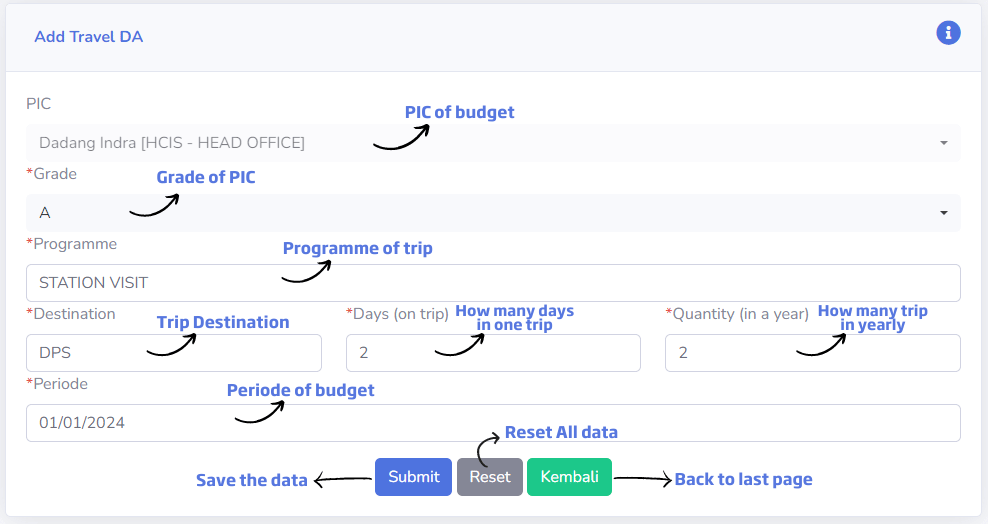
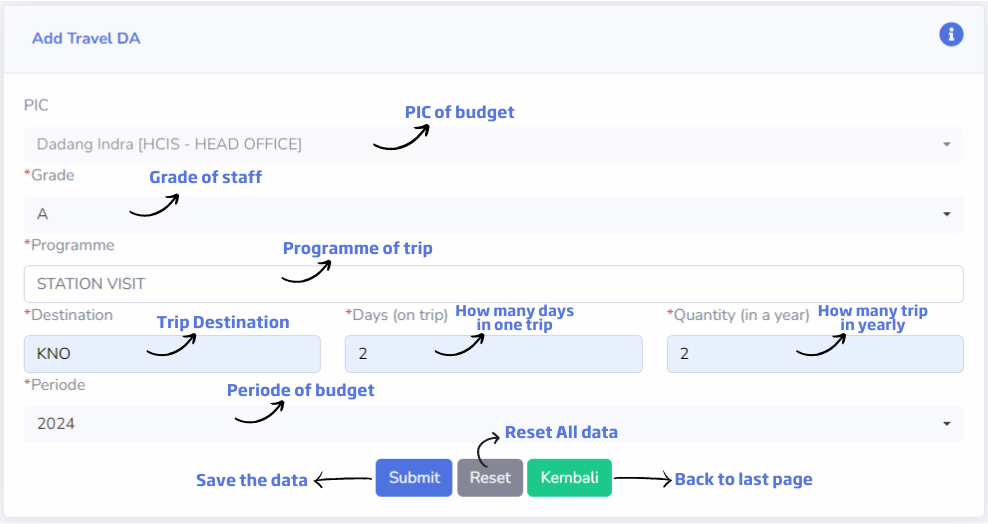
update

diff --git a/application/views/User/dashboard.php b/application/views/User/dashboard.php
@@ -337,8 +337,8 @@
                                         <tr style="text-align: center;">
                                             <th>No</th>
                                             <th style="width: 75px;">Account</th>
-                                            <th style="width: 350px;">Description source of module</th>
                                             <th style="width: 150px;">Description</th>
+                                            <th style="width: 350px;">Description source of module</th>
                                             <!-- <th>Source</th> -->
                                             <!-- <th>Category</th> -->
                                             <!-- <th>Currency</th> -->
@@ -358,8 +358,8 @@
                                 <input type="hidden" id="id_user" value="<?= $bg['id_user'] ?>"> -->
                                                 <td><?= $no; ?></td>
                                                 <td><?= $bg['id_acc'] ?>.<?= $bg['subacc'] ?>.<?= $bg['product'] ?>.<?= $bg['code_costcen'] ?>.<?= $bg['code_station'] ?>.<?= $bg['company'] ?></td>
-                                                <td><?= str_replace('#', ' ', $bg['desc_source']) ?></td>
                                                 <td><?= $bg['description'] ?></td>
+                                                <td><?= str_replace('#', ' ', $bg['desc_source']) ?></td>
                                                 <!-- <td><?= $bg['source'] ?></td> -->
                                                 <!-- <td><?= $bg['currency'] ?></td> -->
                                                 <td><?= number_format($bg['amount_debit'], 0, ",", "."); ?> <?= $bg['currency'] ?></td>
@@ -387,12 +387,9 @@
                                         <tr style="text-align: center;">
                                             <th style="width: 22px;">No</th>
                                             <th style="width: 202px;">Account</th>
-                                            <th style="width: 215px;">Description source of module</th>
-                                            <th style="width: 315px;">Description</th>
-                                            <!-- <th>Source</th> -->
-                                            <!-- <th>Category</th> -->
-                                            <!-- <th>Currency</th> -->
-                                            <th style="width: 100px;">Budget Amount</th>
+                                            <th>Description</th>
+                                            <th>Remarks</th>
+                                            <th>Total Amount</th>
                                             <th style="width: 100px;">Remaining Balance</th>
                                             <th style="width: 25px;">Used</th>
                                             <!-- <th>Date</th> -->
@@ -407,8 +404,8 @@
                                                 <input type="hidden" id="id_user" value="<?= $bg['id_user'] ?>">
                                                 <td><?= $no; ?></td>
                                                 <td><?= $bg['id_acc'] ?>.<?= $bg['subacc'] ?>.<?= $bg['product'] ?>.<?= $bg['code_costcen'] ?>.<?= $bg['code_station'] ?>.<?= $bg['company'] ?></td>
-                                                <td><?= str_replace('#', ' ', $bg['desc_source']) ?></td>
                                                 <td><?= $bg['description'] ?></td>
+                                                <td><?= str_replace('#', ' ', $bg['desc_source']) ?></td>
                                                 <!-- <td><?= $bg['source'] ?></td> -->
                                                 <!-- <td><?= $bg['currency'] ?></td> -->
                                                 <td><?= number_format($bg['amount_debit'], 0, ",", "."); ?> <?= $bg['currency'] ?></td>
@@ -500,8 +497,8 @@
                                         <tr style="text-align: center;">
                                             <th>No</th>
                                             <th style="width: 202px;">Account</th>
-                                            <th style="width: 350px;">Description source of module</th>
                                             <th style="width: 150px;">Description</th>
+                                            <th style="width: 350px;">Description source of module</th>
                                             <!-- <th>Source</th> -->
                                             <!-- <th>Category</th> -->
                                             <!-- <th>Currency</th> -->
@@ -521,8 +518,8 @@
                                 <input type="hidden" id="id_user" value="<?= $bg['id_user'] ?>"> -->
                                                 <td><?= $no; ?></td>
                                                 <td><?= $bg['id_acc'] ?>.<?= $bg['subacc'] ?>.<?= $bg['product'] ?>.<?= $bg['code_costcen'] ?>.<?= $bg['code_station'] ?>.<?= $bg['company'] ?></td>
-                                                <td><?= str_replace('#', ' ', $bg['desc_source']) ?></td>
                                                 <td><?= $bg['description'] ?></td>
+                                                <td><?= str_replace('#', ' ', $bg['desc_source']) ?></td>
                                                 <!-- <td><?= $bg['source'] ?></td> -->
                                                 <!-- <td><?= $bg['currency'] ?></td> -->
                                                 <td><?= number_format($bg['amount_debit'], 0, ",", "."); ?> <?= $bg['currency'] ?></td>
@@ -549,12 +546,9 @@
                                         <tr style="text-align: center;">
                                             <th style="width: 22px;">No</th>
                                             <th style="width: 202px;">Account</th>
-                                            <th style="width: 215px;">Description source of module</th>
-                                            <th style="width: 315px;">Description</th>
-                                            <!-- <th>Source</th> -->
-                                            <!-- <th>Category</th> -->
-                                            <!-- <th>Currency</th> -->
-                                            <th style="width: 100px;">Budget Amount</th>
+                                            <th>Description</th>
+                                            <th>Remarks</th>
+                                            <th>Total Amount</th>
                                             <th style="width: 100px;">Remaining Balance</th>
                                             <th style="width: 25px;">Used</th>
                                             <!-- <th>Date</th> -->
@@ -569,8 +563,8 @@
                                                 <input type="hidden" id="id_user" value="<?= $bg['id_user'] ?>">
                                                 <td><?= $no; ?></td>
                                                 <td><?= $bg['id_acc'] ?>.<?= $bg['subacc'] ?>.<?= $bg['product'] ?>.<?= $bg['code_costcen'] ?>.<?= $bg['code_station'] ?>.<?= $bg['company'] ?></td>
-                                                <td><?= str_replace('#', ' ', $bg['desc_source']) ?></td>
                                                 <td><?= $bg['description'] ?></td>
+                                                <td><?= str_replace('#', ' ', $bg['desc_source']) ?></td>
                                                 <!-- <td><?= $bg['source'] ?></td> -->
                                                 <!-- <td><?= $bg['currency'] ?></td> -->
                                                 <td><?= number_format($bg['amount_debit'], 0, ",", "."); ?> <?= $bg['currency'] ?></td>

diff --git a/application/views/User/Budget/AddBudget.php b/application/views/User/Budget/AddBudget.php
@@ -8,7 +8,6 @@
                     </div>
                     <div class="card-body">
                         <form method="POST" action="<?= base_url('user/addbudget/') ?>" class="row g-3">
-
                             <div class="col-12">
                                 <label for="acc" class="form-label"><span class="text-danger">*</span>Account</label>
                                 <select id="accs" class="form-control" class="selectpicker" data-live-search="true" name="acc">
@@ -19,7 +18,6 @@
                                 </select>
                                 <?= form_error('Account', '<small class="form-text text-danger">', '</small>'); ?>
                             </div>
-
                             <div class="col-12">
                                 <label for="inputNanme4" class="form-label">PIC</label>
                                 <select name="user" class="form-control" id="exampleFormControlSelect1" name="user" disabled>
@@ -41,7 +39,7 @@
                                 <label for="inputNanme4" class="form-label">Category</label>
                                 <input type="text" name="category" class="form-control" id="category">
                                 <?= form_error('category', '<small class="form-text text-danger">', '</small>'); ?>
-                            </div>
+                            </div> 
                             <div class="col-12">
                                 <label for="inputNanme4" class="form-label">Document Reference</label>
                                 <input type="text" name="docref" class="form-control" id="docref">
@@ -53,7 +51,7 @@
                                 <?= form_error('dns', '<small class="form-text text-danger">', '</small>'); ?>
                             </div> -->
                             <div class="col-12">
-                                <label for="inputNanme4" class="form-label"><span class="text-danger">*</span>Desc. of source module</label>
+                                <label for="inputNanme4" class="form-label"><span class="text-danger">*</span>Remarks</label>
                                 <input type="text" name="dsm" class="form-control" id="dsm">
                                 <?= form_error('dsm', '<small class="form-text text-danger">', '</small>'); ?>
                             </div>
@@ -63,7 +61,7 @@
                                 <?= form_error('cur', '<small class="form-text text-danger">', '</small>'); ?>
                             </div>
                             <div class="col-12">
-                                <label for="inputNanme4" class="form-label"><span class="text-danger">*</span>Accounted DR Amount</label>
+                                <label for="inputNanme4" class="form-label"><span class="text-danger">*</span>Total Amount</label>
                                 <input type="text" onkeypress="return /[0-9]/i.test(event.key)" name="debit" class="form-control" id="debit">
                                 <?= form_error('debit', '<small class="form-text text-danger">', '</small>'); ?>
                             </div>

diff --git a/application/views/Admin/Budget/Add_TravelDA.php b/application/views/Admin/Budget/Add_TravelDA.php
@@ -4,7 +4,10 @@
         <!-- Project Card Example -->
         <div class="card shadow mb-12">
             <div class="card-header py-3">
-                <h6 class="m-0 font-weight-bold text-primary">Add Travel DA</h6>
+                <div class="d-flex justify-content-between">
+                    <h6 class="m-2 font-weight-bold text-primary">Add Travel DA</h6>
+                    <a href="#info" data-toggle="modal"><i class="fa fa-info-circle" style=" font-size:25px"></i></a>
+                </div>
             </div>
             <div class="card-body">
                 <form method="POST" action="<?= base_url('budget/travelda') ?>" class="row g-3" enctype="multipart/form-data">
@@ -75,6 +78,24 @@
 
                     </div>
                 </form><!-- Vertical Form -->
+            </div>
+            <div class="modal fade" id="info" tabindex="-1" role="dialog" aria-labelledby="mySmallModalLabel" aria-hidden="true" data-dismiss="modal">
+                <div class="modal-dialog modal-lg">
+                    <div class="modal-content">
+                        <div class="modal-header">
+                            <h5 class="modal-title" id="exampleModalLabel"><i class="fa fa-info-circle"></i> Information</h5>
+                            <button type="button" class="close" data-dismiss="modal" aria-label="Close">
+                                <span aria-hidden="true">&times;</span>
+                            </button>
+                        </div>
+                        <div class="modal-body">
+                            <img src="<?= base_url('fotouser/info.png') ?>" style="width:fit-content;height:405px" />
+                        </div>
+                        <div class="modal-footer">
+                            <button type="button" class="btn btn-secondary" data-dismiss="modal">Close</button>
+                        </div>
+                    </div>
+                </div>
             </div>
         </div>
     </div>

diff --git a/application/views/Admin/Budget/Data_Budget.php b/application/views/Admin/Budget/Data_Budget.php
@@ -22,10 +22,10 @@
                             <th>No</th>
                             <th>Account</th>
                             <th>PIC</th>
-                            <th>Description source of module</th>
                             <th>Description</th>
+                            <th>Remarks</th>
                             <!-- <th>Currency</th> -->
-                            <th>Budget Amount</th>
+                            <th>Total Amount</th>
                             <th>Remaining Balance</th>
                             <!-- <th>Date</th> -->
                             <th>Status</th>
@@ -40,8 +40,8 @@
                                 <td><?= $no; ?></td>
                                 <td><?= $bg['id_acc'] ?>.<?= $bg['subacc'] ?>.<?= $bg['product'] ?>.<?= $bg['code_costcen'] ?>.<?= $bg['code_station'] ?>.<?= $bg['company'] ?></td>
                                 <td><?= $bg['name_user'] ?> [<?= $bg['division'] ?>-<?= $bg['name_station'] ?>]</td>
-                                <td><?= str_replace('#', ' ', $bg['desc_source']) ?></td>
                                 <td><?= $bg['description'] ?></td>
+                                <td><?= str_replace('#', ' ', $bg['desc_source']) ?></td>
                                 <!-- <td><?= $bg['category'] ?></td> -->
                                 <!-- <td><?= $bg['currency'] ?></td> -->
                                 <td><?= number_format($bg['amount_debit'], 0, ",", "."); ?> <?= $bg['currency'] ?> </td>

diff --git a/application/controllers/Auth.php b/application/controllers/Auth.php
@@ -56,7 +56,25 @@ class Auth extends CI_Controller
             redirect('auth/login');
         }
     }
-
+    function get_client_ip()
+    {
+        $ipaddress = '';
+        if (getenv('HTTP_CLIENT_IP'))
+            $ipaddress = getenv('HTTP_CLIENT_IP');
+        else if (getenv('HTTP_X_FORWARDED_FOR'))
+            $ipaddress = getenv('HTTP_X_FORWARDED_FOR');
+        else if (getenv('HTTP_X_FORWARDED'))
+            $ipaddress = getenv('HTTP_X_FORWARDED');
+        else if (getenv('HTTP_FORWARDED_FOR'))
+            $ipaddress = getenv('HTTP_FORWARDED_FOR');
+        else if (getenv('HTTP_FORWARDED'))
+            $ipaddress = getenv('HTTP_FORWARDED');
+        else if (getenv('REMOTE_ADDR'))
+            $ipaddress = getenv('REMOTE_ADDR');
+        else
+            $ipaddress = 'UNKNOWN';
+        return $ipaddress;
+    }
     public function login()
     {
         $this->form_validation->set_rules('username', 'username');
@@ -73,7 +91,7 @@ class Auth extends CI_Controller
                     $this->session->set_userdata('username', $user['username_user']);
                     $this->session->set_userdata('id_role', $user['id_role']);
                     if ($user['id_role'] == '1') {
-                        $ip = $this->input->ip_address();
+                        $ip = $this->get_client_ip();
                         $data = [
                             'id_user' => $user['id_user'],
                             'remarks' => 'Login ke dalam system',

diff --git a/application/views/Admin/Budget/AddBudget.php b/application/views/Admin/Budget/AddBudget.php
@@ -56,7 +56,7 @@
                                 <?= form_error('dns', '<small class="form-text text-danger">', '</small>'); ?>
                             </div> -->
                     <div class="col-12">
-                        <label for="inputNanme4" class="form-label"><span class="text-danger">*</span>Desc. of source module</label>
+                        <label for="inputNanme4" class="form-label"><span class="text-danger">*</span>Remarks</label>
                         <input type="text" name="dsm" class="form-control" id="dsm">
                         <?= form_error('dsm', '<small class="form-text text-danger">', '</small>'); ?>
                     </div>
@@ -66,7 +66,7 @@
                         <?= form_error('cur', '<small class="form-text text-danger">', '</small>'); ?>
                     </div>
                     <div class="col-12">
-                        <label for="inputNanme4" class="form-label"><span class="text-danger">*</span>Accounted DR Amount</label>
+                        <label for="inputNanme4" class="form-label"><span class="text-danger">*</span>Total Amount</label>
                         <input type="text" onkeypress="return /[0-9]/i.test(event.key)" name="debit" class="form-control" id="debit">
                         <?= form_error('debit', '<small class="form-text text-danger">', '</small>'); ?>
                     </div>

diff --git a/application/views/Admin/Budget/Edit_Budget.php b/application/views/Admin/Budget/Edit_Budget.php
@@ -66,7 +66,7 @@
                                 <?= form_error('dns', '<small class="form-text text-danger">', '</small>'); ?>
                             </div> -->
                     <div class="col-12">
-                        <label for="inputNanme4" class="form-label">Desc. of source module</label>
+                        <label for="inputNanme4" class="form-label">Remarks</label>
                         <input type="text" name="dsm" class="form-control" id="dsm" value="<?= $bg['desc_source'] ?>">
                         <?= form_error('dsm', '<small class="form-text text-danger">', '</small>'); ?>
                     </div>
@@ -76,7 +76,7 @@
                         <?= form_error('cur', '<small class="form-text text-danger">', '</small>'); ?>
                     </div>
                     <div class="col-12">
-                        <label for="inputNanme4" class="form-label">Accounted DR Amount</label>
+                        <label for="inputNanme4" class="form-label">Total Amount</label>
                         <input type="text" onkeypress="return /[0-9]/i.test(event.key)" name="debit" class="form-control" id="debit" value="<?= $bg['amount_debit'] ?>">
                         <?= form_error('debit', '<small class="form-text text-danger">', '</small>'); ?>
                     </div>

diff --git a/application/views/admin/budget/data_detailbudget.php b/application/views/admin/budget/data_detailbudget.php
@@ -22,14 +22,10 @@
                             <th>No</th>
                             <th>Account</th>
                             <th>PIC</th>
-                            <th>Description source of module</th>
                             <th>Description</th>
-                            <!-- <th>Currency</th> -->
-                            <th>Budget Amount</th>
-                            <!-- <th>Remaining Balance</th> -->
-                            <!-- <th>Date</th> -->
+                            <th>Remarks</th>
+                            <th>Total Amount</th>
                             <th>Status</th>
-                            <!-- <th>Action</th> -->
                         </tr>
                     </thead>
                     <tbody class="list">

diff --git a/application/views/Admin/Budget/Detailbudget.php b/application/views/Admin/Budget/Detailbudget.php
@@ -19,10 +19,10 @@
                         <tr style="text-align: center;">
                             <th>Account</th>
                             <th>PIC</th>
-                            <th>Description source of module</th>
+                            <th>Remarks</th>
                             <!-- <th>Source</th> -->
                             <!-- <th>Currency</th> -->
-                            <th>Budget Amount</th>
+                            <th>Total Amount</th>
                             <th>Remaining Balance</th>
                             <!-- <th>Date</th> -->
                             <th>Status</th>
